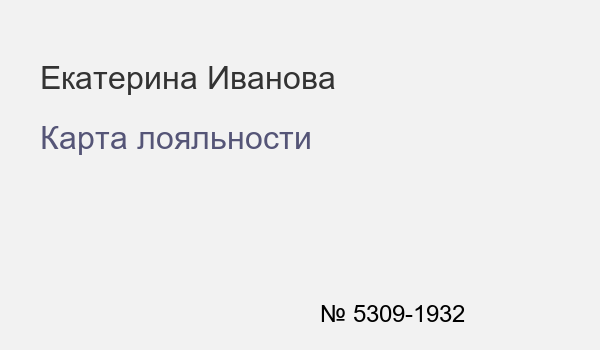
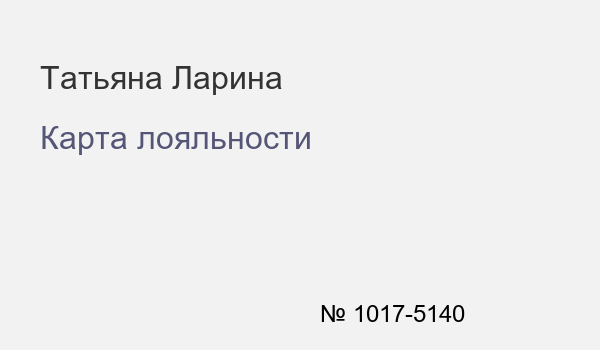
Правки.

Changed region(s): [[0.06, 0.1714, 0.57, 0.2571], [0.57, 0.8571, 0.78, 0.9429]]

diff --git a/app/handlers/common.py b/app/handlers/common.py
@@ -1,9 +1,6 @@
-from aiogram.fsm.context import FSMContext
-from aiogram.types import (FSInputFile, Message, InlineKeyboardMarkup,
-                           InlineKeyboardButton)
-from aiogram import F, Router, types, Bot
+from aiogram.types import FSInputFile, Message
+from aiogram import F, Router
 import app.keyboards.reply as reply_kb
-from app.text import *
 
 
 router = Router()
@@ -64,8 +61,6 @@ async def location(message: Message):
 async def delivery(message: Message):
     text = "🍽 Закажите любое блюдо домой или в офис 🍴\n\nhttps://restoranmyzhenaty.ru/"
     await message.answer(text)
-
-
 
 
 # Обработчик кнопки 'Отмена'

diff --git a/database/models.py b/database/models.py
@@ -97,9 +97,6 @@ class LoyaltyCard(Base):
 
     id: Mapped[int] = mapped_column(primary_key=True, autoincrement=True)
     tg_id: Mapped[int] = mapped_column(ForeignKey('user.tg_id'), nullable=False)
-    # name: Mapped[str] = mapped_column(ForeignKey('user.id'), nullable=False)
-    # surname: Mapped[str] = mapped_column(ForeignKey('user.id'), nullable=True)
-    # birth_date: Mapped[Date] = mapped_column(Date, nullable=True)
     card_number: Mapped[int] = mapped_column(Integer, unique=True, nullable=True )
 
     user: Mapped['User'] = relationship(back_populates='loyalty_card')
